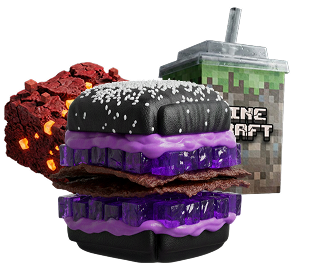
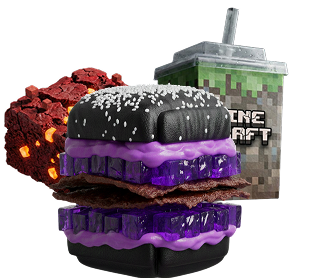
Sistemazione carosello e card

diff --git a/pagina-libera.html b/pagina-libera.html
@@ -79,7 +79,7 @@
 
 <!-- HERO PROMO -->
 <div class="container-fluid hero-promo">
-    <div class="row p-5 align-items-center align-items-lg-end">
+    <div class="row p-5 mt-lg-5 align-items-center align-items-lg-end">
 
         <!-- COLONNA TESTO: a sinistra su desktop (lg-6), piena su mobile (12) -->
         <div class="col-12 col-lg-6 text-center text-lg-start order-1 offset-lg-1">
@@ -153,13 +153,13 @@
 
 <!--Card eventi Overworld-->
             <div class="container-fluid text-center menu-eventi g-0">
-                <div class="row py-5 g-0">
+                <div class="row py-5 g-0 justify-content-center">
                     <div class="col-12 pb-5 d-flex justify-content-center">
                         <h2>Scegli la <b>combo</b> e ottieni il tuo <b>item</b></h2>
                     </div>
-                    <div class="col-8 mx-auto pb-5">
+                    <div class="col-8 col-lg-3 mx-auto mx-lg-4 pb-5">
                         <div class="greenstack-burger-card burger-card">
-                            <img class="img-fluid" src="img/body/pagina-libera/Mistery overworld.png" alt="smallcraft">
+                            <img class="img-fluid bread" src="img/body/pagina-libera/Mistery overworld.png" alt="smallcraft">
                             <h3>Mistery Overworld</h3>
                             <div class="price-container pt-4">
                                 <span class="number">2</span>
@@ -172,10 +172,10 @@
                         </div>
                     </div>
                     <!--Card eventi nether-->
-                    <div class="col-8 mx-auto pb-5">
+                    <div class="col-8 col-lg-3 mx-auto mx-lg-4 pb-5">
                         <div class="netherstack-burger-card">
                             <div class="burger-card">
-                                <img class="img-fluid" src="img/body/pagina-libera/Mistery nether.png" alt="smallcraft">
+                                <img class="img-fluid bread" src="img/body/pagina-libera/Mistery nether.png" alt="smallcraft">
                                 <h3>Mistery Nether</h3>
                                 <div class="price-container pt-4">
                                     <span class="number">2</span>
@@ -189,10 +189,10 @@
                         </div>
                     </div>
                     <!--Card eventi end -->
-                    <div class="col-8 mx-auto pb-5">
+                    <div class="col-8 col-lg-3 mx-auto mx-lg-4 pb-5">
                         <div class="end-burger-card">
                             <div class="burger-card">
-                                <img class="img-fluid" src="img/body/pagina-libera/Mistery end.png" alt="smallcraft">
+                                <img class="img-fluid bread" src="img/body/pagina-libera/Mistery end.png" alt="smallcraft">
                                 <h3>Mistery End</h3>
                                 <div class="price-container pt-4">
                                     <span class="number">2</span>
@@ -206,20 +206,27 @@
                         </div>
                     </div>
                     <!--Mistery box-->
-                    <div class="col-8 mx-auto pb-5">
+                    <div class="col-8 col-lg-10 mx-auto pb-5">
                         <div class="mistery-box">
                             <div class="burger-card">
-                                <img class="img-fluid" src="img/body/pagina-libera/Mistery box.png" alt="mistery-box">
-                                <h3>In cosa consiste la promo</h3>
-                                <p class="pt-4">Se ordini uno a scelta tra i 3 menù mostrati qui sopra otterrai in omaggio un
-                                    umanissimo
-                                    gadget! Non ti resta che
-                                    scoprire quale!</p>
-                                <a class="btn btn-menu pushable inverted" aria-current="page" href="#">
-                                    <span class="front">
-                                        VAI AGLI ITEM
-                                    </span>
-                                </a>
+                                <div class="row align-items-center">
+                                    <!-- Immagine a sinistra: occupa tutta la larghezza su mobile, metà su desktop -->
+                                    <div class="col-12 col-lg-5">
+                                        <img class="img-fluid" src="img/body/pagina-libera/Mistery box.png" alt="mistery-box">
+                                    </div>
+                                    <!-- Testo + bottone a destra: idem -->
+                                    <div class="col-12 col-lg-7">
+                                        <h3>In cosa consiste la promo</h3>
+                                        <p class="py-4">Se ordini uno a scelta tra i 3 menù mostrati qui sopra otterrai in omaggio
+                                            un
+                                            umanissimo gadget! Non ti resta che scoprire quale!</p>
+                                        <a class="btn btn-menu pushable inverted" aria-current="page" href="#">
+                                            <span class="front">
+                                                VAI AGLI ITEM
+                                            </span>
+                                        </a>
+                                    </div>
+                                </div>
                             </div>
                         </div>
                     </div>
@@ -228,45 +235,59 @@
 
 <!--Carosello premi da modificare-->
         <div class="container-fluid text-center carousel-slide g-0">
-        <div class="row py-5 g-0 ">
-            <div class="col-12 pb-5 d-flex flex-column align-items-center">
-                <h2 class="mb-4">Quale item si nasconde nella tua mistery? Vieni a scoprirlo!</h2>
-                <div class="box-slider">
-                    <section id="slider">
-                        <input type="radio" name="slider" id="s1">
-                        <input type="radio" name="slider" id="s2">
-                        <input type="radio" name="slider" id="s3" checked>
-                        <label for="s1" id="slide1">
-                            <div class="item">
-                                <img class="img-fluid" src="img/body/pagina-libera/calzino.png" alt="Socks">
-                            </div>
-                            <h3 class="text-center mt-2">Calzino colorato</h3>
-                        </label>
-
-                        <label for="s2" id="slide2">
-                        <div class="item">
-                                <img class="img-fluid" src="img/body/pagina-libera/trapano.png" alt="Socks">
-                            </div>
-                            <h3 class="text-center mt-2">Trapano forante</h3>
-                        </label>
-
-                        <label for="s3" id="slide3">
-                        <div class="item">
-                                <img class="img-fluid" src="img/body/pagina-libera/Spazzolino.png" alt="Socks">
-                            </div>
-                            <h3 class="text-center mt-2">Spazzolino elettrico</h3>
-                        </label>
-                        <div class="fake-button next">
-                                <img src="img/body/pagina-libera/icona next.svg" alt="Next">
-                        </div>
-                        <div class="fake-button prev">
-                                <img src="img/body/pagina-libera/icona prev.svg" alt="Prev">
-                        </div>
-                </section>
+            <div class="row py-5 g-0 ">
+                <div class="col-12 pb-5 d-flex flex-column align-items-center">
+                    <h2 class="mb-4">Quale item si nasconde nella tua mistery? Vieni a scoprirlo!</h2>
+                    <div class="box-slider">
+                        <section id="slider">
+                            <input type="radio" name="slider" id="s1">
+                            <input type="radio" name="slider" id="s2">
+                            <input type="radio" name="slider" id="s3" checked>
+                            <label for="s1" id="slide1">
+                                <div class="item">
+                                    <img class="img-fluid" src="img/body/pagina-libera/calzino.png" alt="Socks">
+                                </div>
+                                <h3 class="text-center mt-2">Calzino colorato</h3>
+                                <!-- Freccia NEXT visibile solo quando s3 è attivo (slide1 è a destra) -->
+                                <div class="arrow arrow-next">
+                                    <img src="img/body/pagina-libera/icona next.svg" alt="Next">
+                                </div>
+                                <!-- Freccia PREV visibile solo quando s2 è attivo (slide1 è a sinistra) -->
+                                <div class="arrow arrow-prev">
+                                    <img src="img/body/pagina-libera/icona prev.svg" alt="Prev">
+                                </div>
+                            </label>
+        
+                            <label for="s2" id="slide2">
+                                <div class="item">
+                                    <img class="img-fluid" src="img/body/pagina-libera/trapano.png" alt="Socks">
+                                </div>
+                                <h3 class="text-center mt-2">Trapano forante</h3>
+                                <div class="arrow arrow-next">
+                                    <img src="img/body/pagina-libera/icona next.svg" alt="Next">
+                                </div>
+                                <div class="arrow arrow-prev">
+                                    <img src="img/body/pagina-libera/icona prev.svg" alt="Prev">
+                                </div>
+                            </label>
+        
+                            <label for="s3" id="slide3">
+                                <div class="item">
+                                    <img class="img-fluid" src="img/body/pagina-libera/Spazzolino.png" alt="Socks">
+                                </div>
+                                <h3 class="text-center mt-2">Spazzolino elettrico</h3>
+                                <div class="arrow arrow-next">
+                                    <img src="img/body/pagina-libera/icona next.svg" alt="Next">
+                                </div>
+                                <div class="arrow arrow-prev">
+                                    <img src="img/body/pagina-libera/icona prev.svg" alt="Prev">
+                                </div>
+                            </label>
+                        </section>
+                    </div>
                 </div>
             </div>
         </div>
-    </div>
 
     <footer class="container-fluid bg-dark py-5 footer-custom-bg">
         <div class="row align-items-center">

diff --git a/css/pagina-libera.css b/css/pagina-libera.css
@@ -12,6 +12,10 @@
    position: relative;
 }
 
+.panino-promo {
+    width:100%;
+    height: auto;
+}
 .mano-promo {
     position: absolute;
     right: -13rem; 
@@ -29,11 +33,17 @@
     width: 100%;
 }
 
+/*card alcuni brkpoint hanno i numeri che escono fuori, questo è un fix*/
+.burger-card, .netherstack-burger-card .burger-card, .end-burger-card .burger-card {
+    padding: 2rem !important;
+} 
+
 /*card overworld*/
 .greenstack-burger-card {
     background-color: rgba(26, 51, 35, 0.7);
     border: 7px solid var(--ux-global-color-background)
 }
+
 
 .greenstack-burger-card .number{
     background-color: var(--ux-global-color-accent-1)
@@ -65,6 +75,12 @@
     border: 7px solid var(--ux-dark-color)
 }
 
+/*Immagini card*/
+.img-fluid .bread{
+    width: 80%;
+    height: auto;
+}
+
 /* Carosello premi */
 .carousel-slide{
   background-image: url(../img/body/pagina-libera/ITEMS\ PROMO_bg.png);
@@ -74,11 +90,11 @@
 #slider {
 position: relative;
     width: 100%;
-    height: 25rem;/* In base all'altezza dei tuoi box */
+    height: 25rem;/* In base all'altezza dei box */
     display: flex;
     justify-content: center;
     align-items: center;
-    perspective: 1000px;/* Dà profondità all'effetto */
+    perspective: 62.5rem;/* Dà profondità all'effetto */
 }
 
 #slider label {
@@ -91,47 +107,86 @@ position: relative;
   align-items: center;
 }
 
-/* --- LOGICA PER SLIDE 1 AL CENTRO --- */
+/* --- Slide 1 al centro --- */
 #s1:checked ~ #slide1 { transform: translateX(0) scale(1.1); z-index: 5; opacity: 1; }
-#s1:checked ~ #slide2 { transform: translateX(110%) scale(0.8); z-index: 1; opacity: 0.3; }
-#s1:checked ~ #slide3 { transform: translateX(-110%) scale(0.8); z-index: 1; opacity: 0.3; }
+#s1:checked ~ #slide2 { transform: translateX(98%) scale(0.8); z-index: 1; opacity: 0.3; }
+#s1:checked ~ #slide3 { transform: translateX(-98%) scale(0.8); z-index: 1; opacity: 0.3; }
 
-/* --- LOGICA PER SLIDE 2 AL CENTRO --- */
-#s2:checked ~ #slide1 { transform: translateX(-110%) scale(0.8); z-index: 1; opacity: 0.3; }
+/* --- Slide 2 al centro --- */
+#s2:checked ~ #slide1 { transform: translateX(-98%) scale(0.8); z-index: 1; opacity: 0.3; }
 #s2:checked ~ #slide2 { transform: translateX(0) scale(1.1); z-index: 5; opacity: 1; }
-#s2:checked ~ #slide3 { transform: translateX(110%) scale(0.8); z-index: 1; opacity: 0.3; }
+#s2:checked ~ #slide3 { transform: translateX(98%) scale(0.8); z-index: 1; opacity: 0.3; }
 
-/* --- LOGICA PER SLIDE 3 AL CENTRO --- */
-#s3:checked ~ #slide1 { transform: translateX(110%) scale(0.8); z-index: 1; opacity: 0.3; }
-#s3:checked ~ #slide2 { transform: translateX(-110%) scale(0.8); z-index: 1; opacity: 0.3; }
+/* --- Slide 3 al centro --- */
+#s3:checked ~ #slide1 { transform: translateX(98%) scale(0.8); z-index: 1; opacity: 0.3; }
+#s3:checked ~ #slide2 { transform: translateX(-98%) scale(0.8); z-index: 1; opacity: 0.3; }
 #s3:checked ~ #slide3 { transform: translateX(0) scale(1.1); z-index: 5; opacity: 1; }
 
 .box-slider {
     width:100%;
     max-width:100vw;
-    overflow: hidden; /* Fondamentale per il mobile */
-    padding: 20px 0;
+    overflow: hidden; 
+    padding: 1.25rem 0;
 }
 
 input{
     display: none;
 }
 
-.fake-button {
+
+/* Nascondo tutte le frecce di default */
+.arrow {
+    display: none;
     position: absolute;
-    top: 50%;
-    transform: translateY(-50%); /* Per posizionare i finti button alla metà del container */
-    z-index: 10; /* Per poter stare sopra le slide */
-    pointer-events: none; /* I click possono attraversare la lable e triggerare lo spostamento */
-    opacity: 1;
+    z-index: 10;
+    bottom: 50%;
 }
 
-.fake-button.prev {
-    left: 5%; /* Regola la distanza dal bordo sinistro */
+.arrow-prev { left: -10%; transform: translateX(-4rem); }
+.arrow-next { right: -10%; transform: translateX(4rem); } /* speculare */
+
+.arrow img { width: 100%;}
+
+/* s1 attivo → slide2 è a destra (next), slide3 è a sinistra (prev) */
+#s1:checked ~ #slide2 .arrow-next { display: block; }
+#s1:checked ~ #slide3 .arrow-prev { display: block; }
+
+/* s2 attivo → slide3 è a destra (next), slide1 è a sinistra (prev) */
+#s2:checked ~ #slide3 .arrow-next { display: block; }
+#s2:checked ~ #slide1 .arrow-prev { display: block; }
+
+/* s3 attivo → slide1 è a destra (next), slide2 è a sinistra (prev) */
+#s3:checked ~ #slide1 .arrow-next { display: block; }
+#s3:checked ~ #slide2 .arrow-prev { display: block; }
+
+/* Media query per nascondere le frecce su schermi piccoli */
+
+@media (max-width: 576px) {
+    .arrow-next, .arrow-prev {
+        display: none !important;
+    }
 }
 
-.fake-button.next {
-    right: 5%; /* Regola la distanza dal bordo destro */
+/* Media query per regolare la card dell'overworld */
+@media (min-width: 576px) {
+    .greenstack-burger-card {
+        padding: 2rem !important;
+    }
 }
 
+/* Media query per togliere l'opacità al carosello e aumentare il translatex */
+@media (min-width: 992px){
+.box-slider #slider {
+#s1:checked ~ #slide1 { transform: translateX(0) scale(1.1); z-index: 5; opacity: 1; }
+#s1:checked ~ #slide2 { transform: translateX(130%) scale(0.8); z-index: 1; opacity: 1; }
+#s1:checked ~ #slide3 { transform: translateX(-130%) scale(0.8); z-index: 1; opacity: 1; }
 
+#s2:checked ~ #slide1 { transform: translateX(-130%) scale(0.8); z-index: 1; opacity: 1; }
+#s2:checked ~ #slide2 { transform: translateX(0) scale(1.1); z-index: 5; opacity: 1; }
+#s2:checked ~ #slide3 { transform: translateX(130%) scale(0.8); z-index: 1; opacity: 1; }
+
+#s3:checked ~ #slide1 { transform: translateX(130%) scale(0.8); z-index: 1; opacity: 1; }
+#s3:checked ~ #slide2 { transform: translateX(-130%) scale(0.8); z-index: 1; opacity: 1; }
+#s3:checked ~ #slide3 { transform: translateX(0) scale(1.1); z-index: 5; opacity: 1; };
+    }
+}
